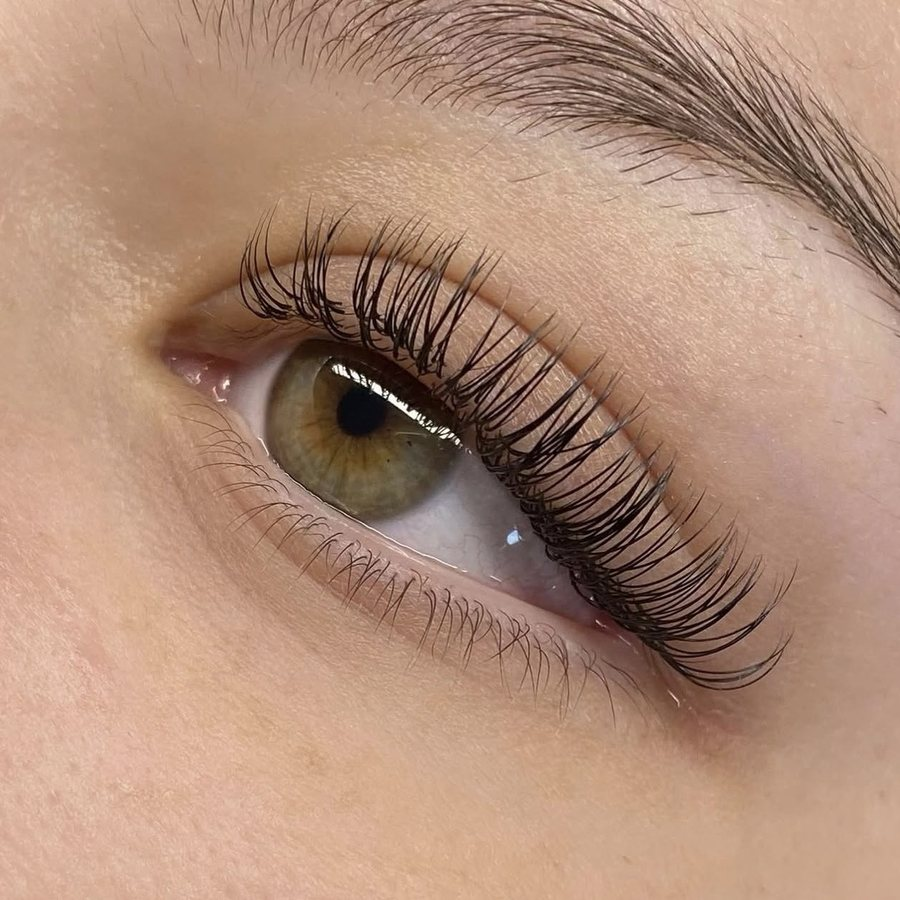
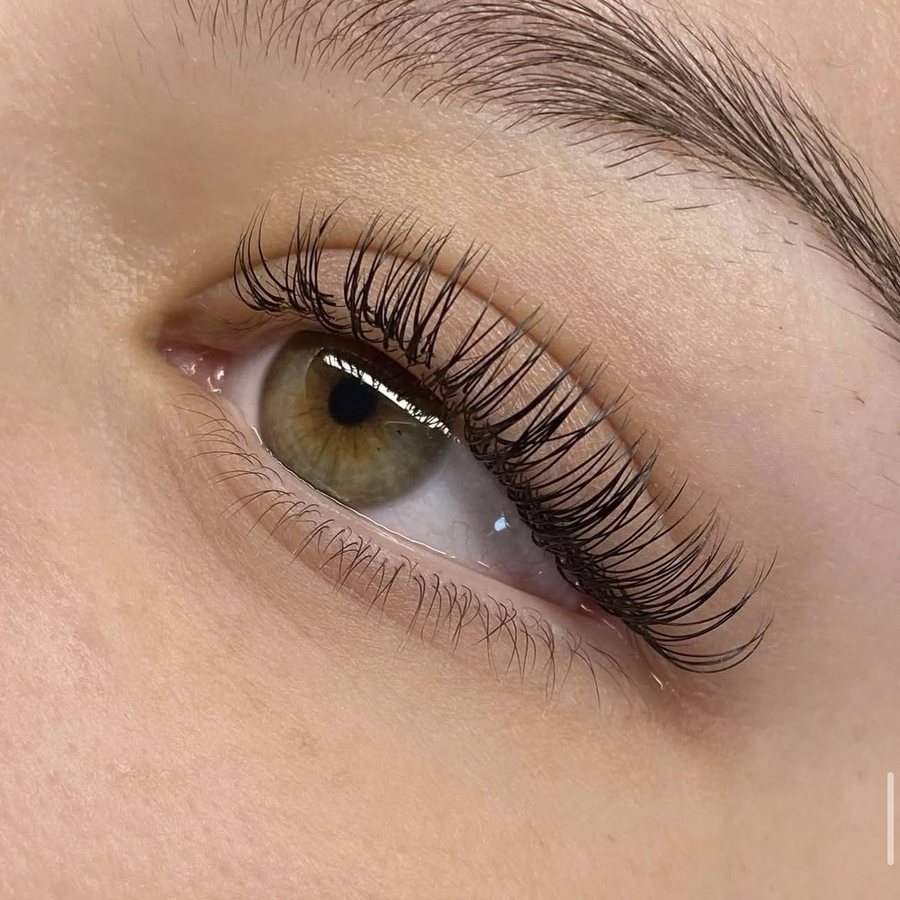
Stop cropping, and let a tap open a photo to the size of all four
No more cropping. The trimming of Instagram's leftover interface was
fragile and beside the point: the salon crops what it wants cropped, and
has. The script resizes and strips metadata, nothing else; the square
framing is the stylesheet's business.

On a phone, tapping a photo now opens it to the square the four of them
occupy, and tapping again puts it back. The grid is two columns by two
rows, so it is already that square: the open photo goes absolute over
the whole grid and lands exactly on their footprint. The other three
keep their place in the flow — the section height does not move by a
pixel — but go visibility:hidden, which also takes them out of the tab
order and the accessibility tree while the view is open.

The column count is now written down, two then four, rather than left to
auto-fit. The whole thing rests on the grid being a square of four, and
a count that varies with width does not guarantee that. Past two
columns there is no square to fill and the button opens nothing.

The animation is a FLIP — measure before, apply the end state, measure
after, replay the difference inverted — because a switch to
position:absolute cannot be transitioned. Under reduced motion the state
changes with no animation at all, measured.

Each photo sits in a real button rather than an image with a listener:
reachable by keyboard, announced as a control, state carried by
aria-expanded. Escape closes too.

Claude-Session: https://claude.ai/code/session_019UoUbTyNjngeRaKzvfjkfZ

diff --git a/src/styles/global.css b/src/styles/global.css
@@ -1438,25 +1438,73 @@ section {
   text-transform: uppercase;
   color: var(--rose-ink);
 }
+/* Deux colonnes, puis quatre. Un nombre de colonnes explicite et non un
+   `auto-fit` : l'agrandissement au doigt suppose de savoir combien il y
+   en a — c'est parce qu'elles sont deux sur deux que la grille est un
+   carré, et que la photo ouverte peut occuper exactement la place des
+   quatre. Avec `auto-fit`, ce nombre dépendait de la largeur et la règle
+   n'était vraie qu'une fois sur deux. */
 .trav-grille {
   list-style: none;
   margin: clamp(12px, 1.6vw, 18px) 0 0;
   padding: 0;
   display: grid;
-  /* `min(210px, 45%)` : sur un téléphone la piste minimale doit pouvoir
-     descendre sous 210 px, sinon la grille déborde au lieu de rétrécir.
-     Les 45 % gardent deux colonnes tant que la place le permet. */
-  grid-template-columns: repeat(auto-fit, minmax(min(210px, 45%), 1fr));
+  grid-template-columns: repeat(2, 1fr);
   gap: clamp(10px, 1.3vw, 16px);
+  position: relative;
+}
+@media (min-width: 760px) {
+  .trav-grille {
+    grid-template-columns: repeat(4, 1fr);
+  }
+}
+.trav-zoom {
+  display: block;
+  width: 100%;
+  padding: 0;
+  border: 0;
+  background: none;
+  cursor: pointer;
 }
 .trav-grille img {
   display: block;
   width: 100%;
-  height: auto;
-  /* Les originaux sont carrés ; le rapport est écrit ici pour que la
-     place soit réservée avant le chargement, sans saut de mise en page. */
+  height: 100%;
+  /* Le rapport est écrit ici pour que la place soit réservée avant le
+     chargement, sans saut de mise en page. Les originaux sont carrés à
+     un pixel près ; `cover` absorbe la différence. */
   aspect-ratio: 1 / 1;
   object-fit: cover;
+}
+
+/* ── la photo agrandie ──
+   Posée en absolu sur toute la grille : deux colonnes sur deux lignes
+   font un carré, donc elle occupe exactement la place des quatre. Les
+   trois autres gardent leur place dans le flux — la hauteur de la
+   section ne bouge pas d'un pixel — mais passent en `visibility:
+   hidden`, ce qui les retire du même coup de la tabulation et des
+   lecteurs d'écran.
+
+   Le passage en absolu ne se transitionne pas : l'animation est jouée
+   par le script, en FLIP. */
+.trav-grille li.ouvert {
+  position: absolute;
+  inset: 0;
+  z-index: 2;
+}
+.trav-grille li.ouvert .trav-zoom,
+.trav-grille li.ouvert img {
+  height: 100%;
+}
+.trav-grille.zoome li:not(.ouvert) {
+  visibility: hidden;
+}
+@media (min-width: 760px) {
+  /* Plus de carré de quatre à remplir : le bouton n'agrandit rien, et
+     rien ne doit laisser croire le contraire. */
+  .trav-zoom {
+    cursor: default;
+  }
 }
 
 /* ── galerie : l'intérieur du salon, en ruban défilant ──

diff --git a/scripts/prepare-galerie.py b/scripts/prepare-galerie.py
@@ -28,60 +28,28 @@ QUALITE = 84
 
 # Largeur de sortie par famille, réglée sur la taille d'affichage la plus
 # grande, doublée pour les écrans à forte densité.
-#
 FAMILLES = {
-    'salon-*.jpg': dict(largeur=900),               # le ruban : 290 px au plus
-    'ongles-*.jpg': dict(largeur=900, carre=True),  # « Le travail » : 420 px au plus
-    'cils-*.jpg': dict(largeur=900, carre=True),
+    'salon-*.jpg': 900,   # le ruban : 290 px au plus
+    'ongles-*.jpg': 900,  # « Le travail » : 420 px au plus
+    'cils-*.jpg': 900,
 }
 
-# Bandes d'interface à retirer, **fichier par fichier**. Certaines
-# réalisations sont des captures d'Instagram et portent l'interface de
-# l'application par-dessus la photo : le compteur du carrousel en haut à
-# droite, la barre de défilement au bord droit. Ce n'est pas la photo,
-# c'est l'écran du téléphone, et on le coupe — puis l'image est ramenée
-# au carré par son centre.
-#
-# Au fichier et non à la famille, parce que la plupart n'ont rien à
-# retirer : rogner les quatre pour le compte de l'une aurait mangé le
-# cadrage des trois autres sans raison.
-#
-# Cette table se périme. Le salon peut renvoyer une photo qu'il a
-# recadrée lui-même, sous le même nom : la ligne d'ici continuerait alors
-# à rogner une bande qui n'existe plus. Le contrôle plus bas n'attrape
-# que le fichier disparu, pas celui-là — d'où le rappel du rognage
-# appliqué dans la sortie du script : une bande annoncée sur une photo
-# qu'on vient de corriger se voit.
-INTERFACE = {
-    'ongles-3-french-couleurs.jpg': dict(rogne_droite=0.025),  # barre de défilement
-    'cils-3.jpg': dict(rogne_droite=0.025),                    # barre de défilement
-}
+# On ne recadre pas. Une version de ce script rognait les bandes
+# d'interface qu'Instagram laisse sur les captures — le compteur du
+# carrousel, la barre de défilement. C'était à la fois fragile et de
+# trop : le salon recadre lui-même ce qu'il veut recadrer, et il l'a
+# fait. Le script réduit et retire les métadonnées, rien d'autre ; le
+# cadrage d'affichage, carré, est l'affaire de la feuille de style.
 
 
 def main() -> None:
-    fichiers = [(f, reglages) for motif, reglages in FAMILLES.items()
+    fichiers = [(f, largeur) for motif, largeur in FAMILLES.items()
                 for f in sorted(SOURCE.glob(motif))]
-    inconnus = set(INTERFACE) - {f.name for f, _ in fichiers}
-    if inconnus:
-        raise SystemExit('INTERFACE vise des fichiers absents : ' + ', '.join(sorted(inconnus)))
     if not fichiers:
         raise SystemExit('aucune photo dans brand/')
 
-    for f, famille in fichiers:
-        reglages = {**famille, **INTERFACE.get(f.name, {})}
+    for f, LARGEUR in fichiers:
         im = Image.open(f)
-
-        haut = reglages.get('rogne_haut', 0)
-        droite = reglages.get('rogne_droite', 0)
-        if haut or droite:
-            im = im.crop((0, round(im.height * haut),
-                          im.width - round(im.width * droite), im.height))
-        if reglages.get('carre'):
-            cote = min(im.width, im.height)
-            gauche = (im.width - cote) // 2
-            im = im.crop((gauche, 0, gauche + cote, cote))
-
-        LARGEUR = reglages['largeur']
         if im.width > LARGEUR:
             im = im.resize((LARGEUR, round(im.height * LARGEUR / im.width)), Image.LANCZOS)
 
@@ -91,13 +59,8 @@ def main() -> None:
         out = SORTIE / f.name
         propre.save(out, 'JPEG', quality=QUALITE, optimize=True, progressive=True)
         reste = len(Image.open(out).getexif())
-        coupes = ', '.join(
-            f'{cote} {part:.0%}'
-            for cote, part in (('haut', haut), ('droite', droite)) if part
-        )
         print(f'{out}  {propre.width}x{propre.height}  '
-              f'{out.stat().st_size / 1024:.0f} Ko  métadonnées restantes : {reste}'
-              + (f'  ← rogné : {coupes}' if coupes else ''))
+              f'{out.stat().st_size / 1024:.0f} Ko  métadonnées restantes : {reste}')
 
 
 if __name__ == '__main__':

diff --git a/README.md b/README.md
@@ -438,23 +438,36 @@ non crème, contrairement aux tarifs juste au-dessus — les photos y
 ressortent mieux, et le changement marque le chapitre. Deux groupes, un
 par praticienne, quatre photos chacun, en carré et à angles vifs.
 
-Certains originaux sont des captures d'Instagram et portent l'interface
-de l'application **par-dessus la photo** : le compteur du carrousel en
-haut à droite (« 1/3 », « 3/3 »), la barre de défilement au bord droit.
-`prepare-galerie.py` coupe ces bandes avant de réduire, puis ramène
-l'image au carré par son centre. Ce n'est pas de la retouche : c'est
-l'écran du téléphone qu'on retire, pas la photo qu'on arrange.
+**Le script ne recadre pas.** Une version précédente rognait les bandes
+d'interface qu'Instagram laisse sur les captures — le compteur du
+carrousel, la barre de défilement. C'était fragile et de trop : le salon
+recadre lui-même ce qu'il veut recadrer, et il l'a fait. `prepare-galerie.py`
+réduit et retire les métadonnées, rien d'autre ; le cadrage carré de
+l'affichage est l'affaire de la feuille de style.
 
-Le réglage se fait **fichier par fichier**, pas par famille : la plupart
-n'ont rien à retirer, et rogner les quatre pour le compte d'une seule
-aurait mangé le cadrage des trois autres sans raison.
+**Sur téléphone, un appui agrandit la photo à la taille des quatre.** La
+grille fait deux colonnes sur deux lignes, donc un carré : la photo
+ouverte se pose en absolu sur toute la grille et occupe exactement leur
+place. Les trois autres gardent leur place dans le flux — la hauteur de
+la section ne bouge pas d'un pixel — mais passent en `visibility:
+hidden`, ce qui les retire du même coup de la tabulation et des lecteurs
+d'écran le temps de la vue. Un second appui referme, Échap aussi.
 
-Cette table se périme, et deux garde-fous s'en occupent. Le script refuse
-de tourner si elle vise un fichier qui n'existe plus. Et il **annonce en
-sortie la bande qu'il a coupée**, fichier par fichier — parce que le cas
-courant n'est pas le fichier disparu mais la photo renvoyée corrigée sous
-le même nom, que le premier contrôle ne voit pas : une bande annoncée sur
-une photo qu'on vient de corriger, elle, se remarque.
+Le nombre de colonnes est **écrit**, deux puis quatre, et non laissé à un
+`auto-fit` : tout l'agrandissement repose sur le fait que la grille est
+un carré de quatre, ce qu'un nombre de colonnes variable ne garantit pas.
+Au-delà de deux colonnes, il n'y a plus de carré à remplir et le bouton
+n'agrandit rien.
+
+L'animation est un **FLIP** : on relève la position de départ, on applique
+l'état d'arrivée, on relève la position finale, et on rejoue l'écart à
+l'envers. C'est le seul moyen d'animer un passage en `position: absolute`,
+qui ne se transitionne pas. Sous mouvement réduit, l'état change sans
+animation — vérifié, zéro animation en cours.
+
+Chaque photo est dans un **vrai bouton**, pas dans une image qu'on
+écoute : atteignable au clavier, annoncée comme une commande, et l'état
+porté par `aria-expanded` plutôt que par une classe que personne ne lit.
 
 Les fichiers de cils sont numérotés, pas nommés par technique : on ne
 distingue pas à l'œil une pose cil à cil d'une mixte ou d'un volume
